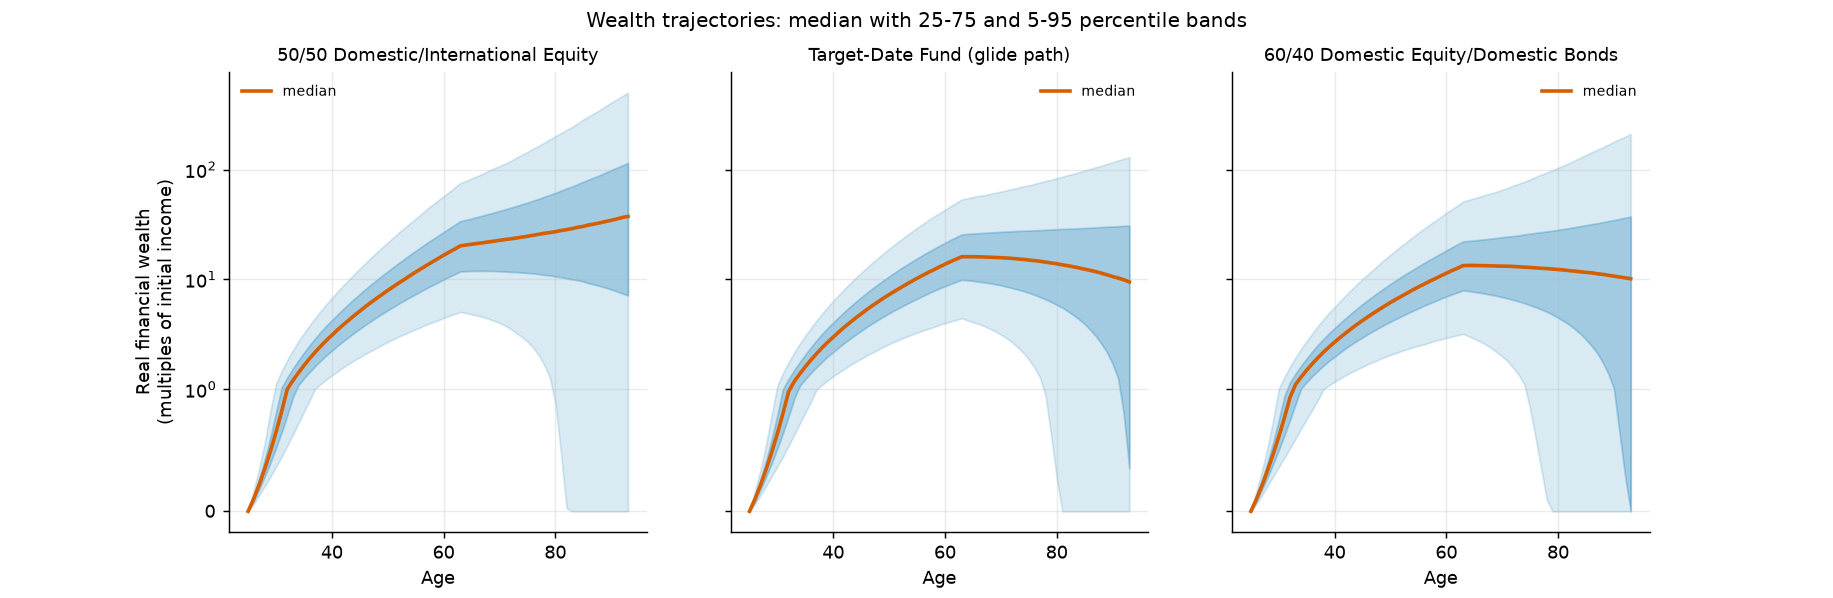
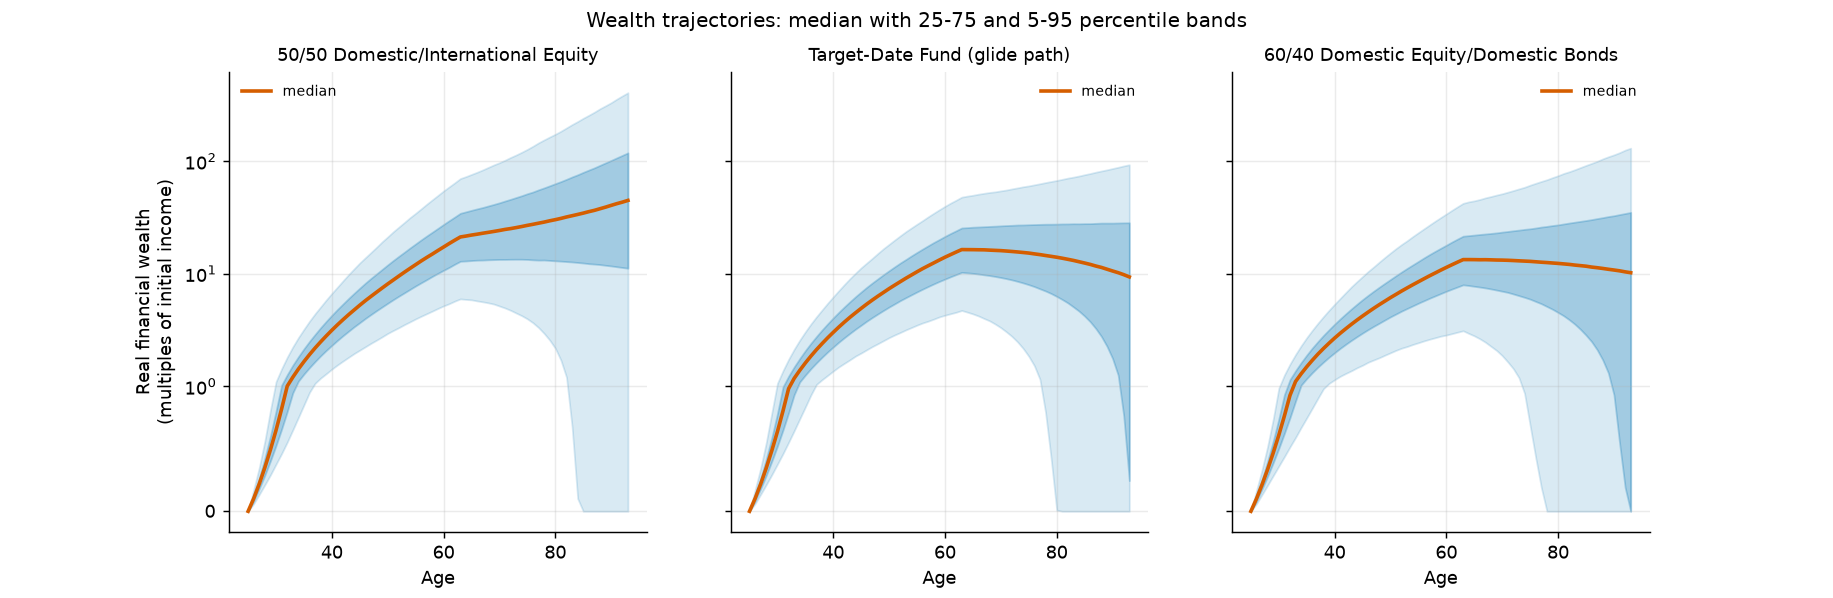
Refresh the README headline table for the observed panel
The all-equity portfolio now leads the target-date fund by 11.2% in
certainty-equivalent consumption, against 7.3% on the panel that contained
generated countries, and ruin falls from 22.2% to 11.7%. Strict dominance is
unchanged at 20 wins, 1 tie, 0 losses.

That direction is what the earlier audit predicted: the generated countries
were factor-model draws fitted to the observed cross-section, so they carried
its average behaviour and none of its idiosyncrasy, which made the
international leg smoother and more correlated with the domestic leg than a
real cross-section is.

Also drops two tables the change orphaned -- the two-panel comparison and the
jst16 robustness run, both of which compared the panel against a subset that
is now the panel.

Claude-Session: https://claude.ai/code/session_01N7pEHUPwZbMXSfjciyf6PN

diff --git a/paper/content.py b/paper/content.py
@@ -1080,9 +1080,9 @@ def section_methods(ctx: Any) -> List[Flowable]:
         f"(<i>{cfg['bootstrap']['country_draw']}</i>) with probability "
         f"proportional to the length of that country's usable history "
         f"(<i>{cfg['bootstrap']['country_weighting']}</i>). Both choices are "
-        f"varied in the robustness analysis of Section 5.5, where the "
-        f"alternatives — redrawing the country at every block, and weighting "
-        f"countries uniformly — leave the ranking unchanged."))
+        f"varied in Appendix C and summarised at the end of Section 5.5: "
+        f"redrawing the country at every block, and weighting countries "
+        f"uniformly, both leave the ranking unchanged."))
 
     out.extend(ctx.table(
         rows_from(moments, ["series", "bootstrap_mean", "panel_pooled_mean",

diff --git a/docs/04_replicated_results_and_tables.md b/docs/04_replicated_results_and_tables.md
@@ -3,20 +3,20 @@
 Headline lifecycle metrics, distributional evidence, robustness checks, and a verdict on the paper's central claim.
 
 _This file is generated by `main.py`; edit `src/report.py` rather than the Markdown._
-Generated 2026-08-28 22:12 UTC.
+Generated 2026-08-29 02:15 UTC.
 
 ## 1. What was run
 
 | Setting | Value |
 | --- | --- |
-| Panel | `dev38` -- 38 developed markets, 131 calendar years |
+| Panel | `observed` -- 16 developed markets, 131 calendar years |
 | Simulated lifetimes | 100,000 |
 | Horizon | 68 years, ages 25-93, retirement at 63 |
 | Expected block length | 10 years, geometric |
 | Domestic country draw | `per_lifetime`, `history`-weighted |
 | Savings rate | 10% of real labour income |
 | Withdrawal rule | 4% of retirement wealth, constant in real terms |
-| Panel fingerprint | `aa08bb120743ba9d` |
+| Panel fingerprint | `0a29b14e8193ba88` |
 
 All monetary quantities are **multiples of initial (age-25) annual real
 income**.
@@ -25,26 +25,26 @@ income**.
 
 | label | cec_crra_gamma2 | cec_crra_gamma5 | cec_crra_gamma10 | cec_ez_gamma2_psi0.5 | cec_ez_gamma2_psi1.5 | cec_ez_gamma5_psi0.5 | cec_ez_gamma5_psi1.5 | cec_ez_gamma10_psi0.5 | cec_ez_gamma10_psi1.5 | prob_ruin | median_wealth_at_retirement | median_bequest | p5_bequest | median_retirement_consumption |
 | --- | --- | --- | --- | --- | --- | --- | --- | --- | --- | --- | --- | --- | --- | --- |
-| 50/50 Domestic/International Equity | 1.3618 | 1.0020 | 0.7281 | 1.3618 | 1.5880 | 1.0542 | 1.1653 | 0.8013 | 0.8532 | 0.1441 | 20.1902 | 37.4520 | 0.0000 | 1.4376 |
-| 100% Domestic Equity | 1.1661 | 0.8642 | 0.6584 | 1.1661 | 1.3062 | 0.9076 | 0.9673 | 0.7106 | 0.7385 | 0.2795 | 15.2256 | 12.7524 | 0.0000 | 1.2056 |
-| 100% International Equity | 1.4510 | 1.0434 | 0.7401 | 1.4510 | 1.7343 | 1.1011 | 1.2359 | 0.8189 | 0.8741 | 0.1144 | 23.0917 | 56.8743 | 0.0000 | 1.5563 |
-| 60/40 Domestic Equity/Domestic Bonds | 1.1223 | 0.8754 | 0.6742 | 1.1223 | 1.2305 | 0.9093 | 0.9638 | 0.7219 | 0.7498 | 0.2382 | 13.3566 | 10.1274 | 0.0000 | 1.1571 |
-| Target-Date Fund (glide path) | 1.2141 | 0.9370 | 0.7026 | 1.2141 | 1.3185 | 0.9803 | 1.0369 | 0.7688 | 0.7995 | 0.2192 | 16.0818 | 9.4704 | 0.0000 | 1.2682 |
-| 100% Bills (cash) | 0.8450 | 0.7365 | 0.6169 | 0.8450 | 0.8595 | 0.7514 | 0.7632 | 0.6434 | 0.6538 | 0.5779 | 6.2921 | 0.0000 | 0.0000 | 0.8545 |
+| 50/50 Domestic/International Equity | 1.4064 | 1.0478 | 0.7563 | 1.4064 | 1.6624 | 1.1049 | 1.2478 | 0.8459 | 0.9183 | 0.1171 | 21.1901 | 44.7494 | 0.0000 | 1.4825 |
+| 100% Domestic Equity | 1.1828 | 0.8818 | 0.6677 | 1.1828 | 1.3355 | 0.9268 | 0.9937 | 0.7224 | 0.7514 | 0.2538 | 16.0819 | 16.6674 | 0.0000 | 1.2413 |
+| 100% International Equity | 1.5207 | 1.1085 | 0.7819 | 1.5207 | 1.8450 | 1.1710 | 1.3581 | 0.8795 | 0.9739 | 0.0899 | 24.4229 | 64.2500 | 0.0000 | 1.6134 |
+| 60/40 Domestic Equity/Domestic Bonds | 1.1054 | 0.8707 | 0.6712 | 1.1054 | 1.2134 | 0.9060 | 0.9630 | 0.7195 | 0.7470 | 0.2421 | 13.3369 | 10.1967 | 0.0000 | 1.1490 |
+| Target-Date Fund (glide path) | 1.2143 | 0.9425 | 0.7036 | 1.2143 | 1.3207 | 0.9906 | 1.0525 | 0.7782 | 0.8103 | 0.2221 | 16.3743 | 9.3634 | 0.0000 | 1.2725 |
+| 100% Bills (cash) | 0.8471 | 0.7390 | 0.6184 | 0.8471 | 0.8616 | 0.7543 | 0.7665 | 0.6455 | 0.6564 | 0.5636 | 6.3951 | 0.0000 | 0.0000 | 0.8558 |
 
 Reading the table at the baseline preference (`gamma = 5`):
 
 * The best strategy on certainty equivalent consumption is
-  **100% International Equity** at 1.0434.
-* The 50/50 Domestic/International Equity portfolio delivers 1.0020, which is
-  **+6.9%** against the target-date fund (0.9370)
-  and **+14.5%** against 60/40 (0.8754).
-* Ruin probability under the 4% rule is 14.4% for the
-  all-equity portfolio -- **7.5 percentage points lower** than the
-  target-date fund's 21.9% and 9.4pp lower than 60/40's
-  23.8%. The conservative strategies are the ones that run out of money.
+  **100% International Equity** at 1.1085.
+* The 50/50 Domestic/International Equity portfolio delivers 1.0478, which is
+  **+11.2%** against the target-date fund (0.9425)
+  and **+20.3%** against 60/40 (0.8707).
+* Ruin probability under the 4% rule is 11.7% for the
+  all-equity portfolio -- **10.5 percentage points lower** than the
+  target-date fund's 22.2% and 12.5pp lower than 60/40's
+  24.2%. The conservative strategies are the ones that run out of money.
 * Bills alone -- the "safe" strategy -- ruin
-  57.8% of investors.
+  56.4% of investors.
 
 As an internal check on the preference machinery, the `cec_ez_gamma2_psi0.5`
 column reproduces `cec_crra_gamma2` exactly, and `cec_ez_gamma10_psi0.1` would
@@ -90,7 +90,7 @@ depend on any modelling choice made here.
 
 100% international equity scores *above* the 50/50 split on this panel. That
 is a mechanical consequence of the international leg being an equally weighted
-portfolio of 37 other markets while the domestic leg is a single
+portfolio of 15 other markets while the domestic leg is a single
 market: the international sleeve is simply better diversified. ACO find the
 same direction and still recommend roughly 50/50 on grounds this simulation
 does not model -- home bias in consumption baskets, currency-hedging costs,
@@ -104,34 +104,34 @@ the unconstrained optimum.
 
 | strategy | label | mean | p1 | p5 | p10 | p25 | p50 | p75 | p90 | p95 | p99 |
 | --- | --- | --- | --- | --- | --- | --- | --- | --- | --- | --- | --- |
-| balanced_all_equity | 50/50 Domestic/International Equity | 28.2499 | 2.6286 | 5.0469 | 7.0533 | 11.8140 | 20.1902 | 33.8438 | 54.8242 | 75.4590 | 150.7082 |
-| domestic_equity | 100% Domestic Equity | 35.1832 | 1.0982 | 2.7441 | 4.2566 | 8.0379 | 15.2256 | 28.6515 | 52.3268 | 80.7069 | 449.5271 |
-| international_equity | 100% International Equity | 30.2992 | 2.7100 | 5.6629 | 8.0479 | 13.6823 | 23.0917 | 37.9490 | 59.2080 | 78.3944 | 135.4626 |
-| sixty_forty | 60/40 Domestic Equity/Domestic Bonds | 19.6448 | 1.4507 | 3.1801 | 4.6064 | 7.9417 | 13.3566 | 22.1451 | 35.8972 | 51.1817 | 139.2982 |
-| target_date_fund | Target-Date Fund (glide path) | 21.1479 | 2.3382 | 4.4219 | 6.0694 | 9.9061 | 16.0818 | 25.6578 | 39.8676 | 53.3798 | 101.2643 |
-| bills_only | 100% Bills (cash) | 7.1365 | 0.9652 | 2.0367 | 2.7806 | 4.2313 | 6.2921 | 9.0649 | 12.4419 | 15.0021 | 21.1890 |
+| balanced_all_equity | 50/50 Domestic/International Equity | 27.6620 | 3.3648 | 5.9692 | 7.9909 | 12.8823 | 21.1901 | 34.4085 | 53.2771 | 70.0209 | 120.6625 |
+| domestic_equity | 100% Domestic Equity | 23.6835 | 1.2576 | 3.0315 | 4.6082 | 8.7218 | 16.0819 | 28.6095 | 47.6442 | 65.6997 | 132.4669 |
+| international_equity | 100% International Equity | 32.0010 | 3.8552 | 6.9279 | 9.2016 | 14.6933 | 24.4229 | 39.7321 | 62.3029 | 82.2718 | 139.0937 |
+| sixty_forty | 60/40 Domestic Equity/Domestic Bonds | 17.0102 | 1.3281 | 3.1089 | 4.5931 | 7.9584 | 13.3369 | 21.5413 | 32.8143 | 42.1849 | 70.4566 |
+| target_date_fund | Target-Date Fund (glide path) | 20.2112 | 2.4768 | 4.7101 | 6.4543 | 10.2730 | 16.3743 | 25.4865 | 37.9751 | 47.8799 | 76.8733 |
+| bills_only | 100% Bills (cash) | 7.1806 | 0.8433 | 2.0183 | 2.8438 | 4.3418 | 6.3951 | 9.1207 | 12.3977 | 14.9368 | 20.9819 |
 
 ### 4.2 Real bequest at age 93
 
 | strategy | label | mean | p1 | p5 | p10 | p25 | p50 | p75 | p90 | p95 | p99 |
 | --- | --- | --- | --- | --- | --- | --- | --- | --- | --- | --- | --- |
-| balanced_all_equity | 50/50 Domestic/International Equity | 179.2957 | 0.0000 | 0.0000 | 0.0000 | 7.1615 | 37.4520 | 114.8504 | 281.8682 | 500.5876 | 2573.9188 |
-| domestic_equity | 100% Domestic Equity | 2426.3160 | 0.0000 | 0.0000 | 0.0000 | 0.0000 | 12.7524 | 65.7270 | 215.3875 | 479.7417 | 41034.4802 |
-| international_equity | 100% International Equity | 139.7008 | 0.0000 | 0.0000 | 0.0000 | 14.4692 | 56.8743 | 151.8938 | 333.8196 | 534.2411 | 1249.1092 |
-| sixty_forty | 60/40 Domestic Equity/Domestic Bonds | 137.8966 | 0.0000 | 0.0000 | 0.0000 | 0.0000 | 10.1274 | 37.3114 | 103.7745 | 210.6618 | 3792.0356 |
-| target_date_fund | Target-Date Fund (glide path) | 35.2781 | 0.0000 | 0.0000 | 0.0000 | 0.3515 | 9.4704 | 30.8613 | 74.5228 | 129.6347 | 441.8587 |
-| bills_only | 100% Bills (cash) | 1.2743 | 0.0000 | 0.0000 | 0.0000 | 0.0000 | 0.0000 | 1.0218 | 3.8526 | 6.7734 | 15.8933 |
+| balanced_all_equity | 50/50 Domestic/International Equity | 108.4187 | 0.0000 | 0.0000 | 0.0000 | 11.1848 | 44.7494 | 118.4408 | 258.8582 | 405.5232 | 938.8100 |
+| domestic_equity | 100% Domestic Equity | 83.1474 | 0.0000 | 0.0000 | 0.0000 | 0.0000 | 16.6674 | 68.7263 | 184.8281 | 322.9794 | 919.0764 |
+| international_equity | 100% International Equity | 149.2138 | 0.0000 | 0.0000 | 0.4448 | 18.8916 | 64.2500 | 163.3522 | 353.2669 | 550.2203 | 1300.8826 |
+| sixty_forty | 60/40 Domestic Equity/Domestic Bonds | 33.1275 | 0.0000 | 0.0000 | 0.0000 | 0.0000 | 10.1967 | 35.0139 | 81.9068 | 130.3778 | 305.7835 |
+| target_date_fund | Target-Date Fund (glide path) | 23.6896 | 0.0000 | 0.0000 | 0.0000 | 0.2454 | 9.3634 | 28.3347 | 61.3163 | 92.9050 | 194.5955 |
+| bills_only | 100% Bills (cash) | 1.1574 | 0.0000 | 0.0000 | 0.0000 | 0.0000 | 0.0000 | 1.0602 | 3.6132 | 6.0170 | 13.3261 |
 
 ### 4.3 Mean real retirement consumption
 
 | strategy | label | mean | p1 | p5 | p10 | p25 | p50 | p75 | p90 | p95 | p99 |
 | --- | --- | --- | --- | --- | --- | --- | --- | --- | --- | --- | --- |
-| balanced_all_equity | 50/50 Domestic/International Equity | 1.7481 | 0.5660 | 0.7137 | 0.8176 | 1.0519 | 1.4347 | 2.0285 | 2.8914 | 3.7057 | 6.6688 |
-| domestic_equity | 100% Domestic Equity | 1.9788 | 0.4968 | 0.6141 | 0.6964 | 0.8889 | 1.2135 | 1.7658 | 2.7059 | 3.7376 | 17.9233 |
-| international_equity | 100% International Equity | 1.8329 | 0.5780 | 0.7412 | 0.8623 | 1.1242 | 1.5522 | 2.1918 | 3.0677 | 3.8320 | 6.0987 |
-| sixty_forty | 60/40 Domestic Equity/Domestic Bonds | 1.4029 | 0.5070 | 0.6224 | 0.7024 | 0.8787 | 1.1564 | 1.5692 | 2.1610 | 2.7707 | 6.1878 |
-| target_date_fund | Target-Date Fund (glide path) | 1.4643 | 0.5412 | 0.6705 | 0.7612 | 0.9591 | 1.2627 | 1.7089 | 2.3181 | 2.8712 | 4.7461 |
-| bills_only | 100% Bills (cash) | 0.9070 | 0.4564 | 0.5370 | 0.5896 | 0.6986 | 0.8595 | 1.0660 | 1.2826 | 1.4285 | 1.7730 |
+| balanced_all_equity | 50/50 Domestic/International Equity | 1.7278 | 0.5981 | 0.7491 | 0.8593 | 1.0957 | 1.4811 | 2.0512 | 2.8311 | 3.4947 | 5.4563 |
+| domestic_equity | 100% Domestic Equity | 1.5267 | 0.5058 | 0.6270 | 0.7142 | 0.9127 | 1.2458 | 1.7780 | 2.5317 | 3.2229 | 5.6246 |
+| international_equity | 100% International Equity | 1.9050 | 0.6224 | 0.7952 | 0.9126 | 1.1764 | 1.6117 | 2.2656 | 3.1891 | 3.9884 | 6.2143 |
+| sixty_forty | 60/40 Domestic Equity/Domestic Bonds | 1.2919 | 0.5042 | 0.6225 | 0.7018 | 0.8762 | 1.1490 | 1.5364 | 2.0257 | 2.4159 | 3.5103 |
+| target_date_fund | Target-Date Fund (glide path) | 1.4204 | 0.5477 | 0.6824 | 0.7728 | 0.9672 | 1.2691 | 1.6928 | 2.2277 | 2.6453 | 3.7936 |
+| bills_only | 100% Bills (cash) | 0.9083 | 0.4596 | 0.5405 | 0.5936 | 0.7022 | 0.8604 | 1.0682 | 1.2810 | 1.4288 | 1.7673 |
 
 The left tail is what settles the argument. Conservative strategies do not
 merely give up upside -- they lose at the *bottom* of the distribution too,
@@ -143,85 +143,62 @@ supposedly safe allocations are not safer where safety is supposed to matter.
 
 Each variant re-runs the entire pipeline end to end with one change.
 
-### 5.1 Panel `jst16` (fully empirical countries only)
+### 5.1 Country draw `per_block`
 
 | strategy | label | cec_crra_gamma5 | cec_ez_gamma5_psi1.5 | prob_ruin | median_wealth_at_retirement | median_bequest | p5_retirement_consumption |
 | --- | --- | --- | --- | --- | --- | --- | --- |
-| balanced_all_equity | 50/50 Domestic/International Equity | 1.0478 | 1.2478 | 0.1171 | 21.1901 | 44.7494 | 0.7491 |
-| domestic_equity | 100% Domestic Equity | 0.8818 | 0.9937 | 0.2538 | 16.0819 | 16.6674 | 0.6270 |
-| international_equity | 100% International Equity | 1.1085 | 1.3581 | 0.0899 | 24.4229 | 64.2500 | 0.7952 |
-| sixty_forty | 60/40 Domestic Equity/Domestic Bonds | 0.8707 | 0.9630 | 0.2421 | 13.3369 | 10.1967 | 0.6225 |
-| target_date_fund | Target-Date Fund (glide path) | 0.9425 | 1.0525 | 0.2221 | 16.3743 | 9.3634 | 0.6824 |
-| bills_only | 100% Bills (cash) | 0.7390 | 0.7665 | 0.5636 | 6.3951 | 0.0000 | 0.5405 |
+| balanced_all_equity | 50/50 Domestic/International Equity | 1.0462 | 1.2564 | 0.1176 | 21.0230 | 43.0276 | 0.7497 |
+| domestic_equity | 100% Domestic Equity | 0.8779 | 1.0051 | 0.2591 | 15.7353 | 14.2223 | 0.6312 |
+| international_equity | 100% International Equity | 1.1051 | 1.3568 | 0.0907 | 24.2802 | 63.7434 | 0.7922 |
+| sixty_forty | 60/40 Domestic Equity/Domestic Bonds | 0.8657 | 0.9650 | 0.2487 | 13.1465 | 9.0024 | 0.6211 |
+| target_date_fund | Target-Date Fund (glide path) | 0.9386 | 1.0554 | 0.2282 | 16.1997 | 8.7257 | 0.6827 |
+| bills_only | 100% Bills (cash) | 0.7366 | 0.7647 | 0.5752 | 6.3680 | 0.0000 | 0.5386 |
 
-### 5.2 Country draw `per_block`
-
-| strategy | label | cec_crra_gamma5 | cec_ez_gamma5_psi1.5 | prob_ruin | median_wealth_at_retirement | median_bequest | p5_retirement_consumption |
-| --- | --- | --- | --- | --- | --- | --- | --- |
-| balanced_all_equity | 50/50 Domestic/International Equity | 1.0086 | 1.2008 | 0.1390 | 20.1633 | 37.1901 | 0.7229 |
-| domestic_equity | 100% Domestic Equity | 0.8638 | 0.9871 | 0.2796 | 15.2162 | 11.9603 | 0.6202 |
-| international_equity | 100% International Equity | 1.0463 | 1.2677 | 0.1129 | 23.0035 | 53.9653 | 0.7490 |
-| sixty_forty | 60/40 Domestic Equity/Domestic Bonds | 0.8769 | 0.9798 | 0.2360 | 13.3821 | 9.7379 | 0.6302 |
-| target_date_fund | Target-Date Fund (glide path) | 0.9408 | 1.0544 | 0.2167 | 16.0602 | 9.2797 | 0.6818 |
-| bills_only | 100% Bills (cash) | 0.7344 | 0.7620 | 0.5882 | 6.2268 | 0.0000 | 0.5380 |
-
-### 5.3 Country weighting `uniform`
+### 5.2 Country weighting `uniform`
 
 | strategy | label | cec_crra_gamma5 | cec_ez_gamma5_psi1.5 | prob_ruin | median_wealth_at_retirement | median_bequest | p5_retirement_consumption |
 | --- | --- | --- | --- | --- | --- | --- | --- |
-| balanced_all_equity | 50/50 Domestic/International Equity | 1.0038 | 1.1527 | 0.1415 | 20.8565 | 40.7042 | 0.7070 |
-| domestic_equity | 100% Domestic Equity | 0.8570 | 0.9525 | 0.2850 | 15.5401 | 12.7314 | 0.6045 |
-| international_equity | 100% International Equity | 1.0795 | 1.2907 | 0.0934 | 23.0738 | 58.5325 | 0.7707 |
-| sixty_forty | 60/40 Domestic Equity/Domestic Bonds | 0.8999 | 0.9884 | 0.2084 | 14.7131 | 14.3307 | 0.6320 |
-| target_date_fund | Target-Date Fund (glide path) | 0.9672 | 1.0681 | 0.1766 | 17.2805 | 13.6005 | 0.6862 |
-| bills_only | 100% Bills (cash) | 0.7382 | 0.7647 | 0.5729 | 6.3201 | 0.0000 | 0.5365 |
+| balanced_all_equity | 50/50 Domestic/International Equity | 1.0472 | 1.2472 | 0.1177 | 21.2003 | 44.7152 | 0.7491 |
+| domestic_equity | 100% Domestic Equity | 0.8814 | 0.9932 | 0.2543 | 16.0907 | 16.6722 | 0.6266 |
+| international_equity | 100% International Equity | 1.1089 | 1.3595 | 0.0901 | 24.4401 | 64.1127 | 0.7957 |
+| sixty_forty | 60/40 Domestic Equity/Domestic Bonds | 0.8704 | 0.9624 | 0.2422 | 13.3316 | 10.1559 | 0.6221 |
+| target_date_fund | Target-Date Fund (glide path) | 0.9424 | 1.0522 | 0.2229 | 16.3448 | 9.3362 | 0.6824 |
+| bills_only | 100% Bills (cash) | 0.7389 | 0.7662 | 0.5641 | 6.3909 | 0.0000 | 0.5401 |
 
 ### Results by domestic-country tier
 
 | tier | n_paths | strategy | label | cec_crra_gamma5 | prob_ruin | median_bequest |
 | --- | --- | --- | --- | --- | --- | --- |
-| A | 60331 | balanced_all_equity | 50/50 Domestic/International Equity | 1.0541 | 0.1138 | 49.1814 |
-| A | 60331 | domestic_equity | 100% Domestic Equity | 0.8780 | 0.2568 | 16.2356 |
-| A | 60331 | international_equity | 100% International Equity | 1.1386 | 0.0794 | 78.7781 |
-| A | 60331 | sixty_forty | 60/40 Domestic Equity/Domestic Bonds | 0.8668 | 0.2448 | 10.0080 |
-| A | 60331 | target_date_fund | Target-Date Fund (glide path) | 0.9436 | 0.2186 | 9.8547 |
-| A | 60331 | bills_only | 100% Bills (cash) | 0.7370 | 0.5623 | 0.0000 |
-| B | 14828 | balanced_all_equity | 50/50 Domestic/International Equity | 0.8632 | 0.2750 | 9.4315 |
-| B | 14828 | domestic_equity | 100% Domestic Equity | 0.8092 | 0.3696 | 3.6939 |
-| B | 14828 | international_equity | 100% International Equity | 0.8473 | 0.2856 | 10.3709 |
-| B | 14828 | sixty_forty | 60/40 Domestic Equity/Domestic Bonds | 0.8239 | 0.3134 | 3.8661 |
-| B | 14828 | target_date_fund | Target-Date Fund (glide path) | 0.8456 | 0.3280 | 2.8560 |
-| B | 14828 | bills_only | 100% Bills (cash) | 0.7278 | 0.6070 | 0.0000 |
-| C | 24841 | balanced_all_equity | 50/50 Domestic/International Equity | 1.0127 | 0.1397 | 36.6905 |
-| C | 24841 | domestic_equity | 100% Domestic Equity | 0.8709 | 0.2807 | 11.9384 |
-| C | 24841 | international_equity | 100% International Equity | 1.0595 | 0.0971 | 52.1183 |
-| C | 24841 | sixty_forty | 60/40 Domestic Equity/Domestic Bonds | 0.9440 | 0.1770 | 16.4123 |
-| C | 24841 | target_date_fund | Target-Date Fund (glide path) | 1.0020 | 0.1557 | 15.9095 |
-| C | 24841 | bills_only | 100% Bills (cash) | 0.7408 | 0.5984 | 0.0000 |
+| A | 100000 | balanced_all_equity | 50/50 Domestic/International Equity | 1.0478 | 0.1171 | 44.7494 |
+| A | 100000 | domestic_equity | 100% Domestic Equity | 0.8818 | 0.2538 | 16.6674 |
+| A | 100000 | international_equity | 100% International Equity | 1.1085 | 0.0899 | 64.2500 |
+| A | 100000 | sixty_forty | 60/40 Domestic Equity/Domestic Bonds | 0.8707 | 0.2421 | 10.1967 |
+| A | 100000 | target_date_fund | Target-Date Fund (glide path) | 0.9425 | 0.2221 | 9.3634 |
+| A | 100000 | bills_only | 100% Bills (cash) | 0.7390 | 0.5636 | 0.0000 |
 
-The ranking is stable across the empirical-only panel, the `per_block` country
-draw and uniform country weighting. That the Tier-A-only (fully empirical,
-16-country) panel reproduces the ordering is the check that matters most: the
-conclusion is not an artefact of the calibrated Tier-B extension.
+The ranking is stable across the `per_block` country draw and uniform country
+weighting.
 
-The tier split says something stronger. The all-equity advantage over the
-glide path is **larger** on the observed Tier-A histories than on the
-simulated ones, and 60/40 does relatively *better* among domestic markets whose
-equity was generated. The synthetic countries are drawn from a factor model
-fitted to Tier-A, so their equity returns are less fat-tailed and less
-persistent than the real thing -- they dilute the result rather than create
-it. If the extension were manufacturing the finding, this table would show the
-opposite pattern. (Tier B carries observed bonds and bills but simulated
-equity, so it sits with the simulated group on the mechanism that matters
-here.)
+There is no panel variant left to report here, and that is the point. This
+section used to compare a 38-country panel against its 16-country empirical
+subset, because 22 of those countries had factor-model returns. The simulated
+countries have been removed, so the empirical subset *is* the panel and there
+is nothing to hold it against. `14_data_provenance.md` records what the removal
+cost -- an international leg averaged over 15
+markets rather than 37 -- and what it bought.
+
+The tier split below is therefore degenerate by construction: every country is
+Tier A. It is still reported, because it is computed from the observation masks
+rather than from a label, and a non-degenerate result would mean a generated
+block had returned to the panel.
 
 ## 6. Comparison with the published paper
 
 | Claim in Anarkulova, Cederburg & O'Doherty | This replication | Agreement |
 | --- | --- | --- |
-| All-equity beats target-date glide paths on certainty-equivalent consumption | 1.0020 vs 0.9370 at gamma = 5 | yes |
-| All-equity beats 60/40 on certainty-equivalent consumption | 1.0020 vs 0.8754 | yes |
-| All-equity *also* wins on downside/ruin, not just on the mean | ruin 14.4% vs 21.9% (TDF) and 23.8% (60/40) | yes |
+| All-equity beats target-date glide paths on certainty-equivalent consumption | 1.0478 vs 0.9425 at gamma = 5 | yes |
+| All-equity beats 60/40 on certainty-equivalent consumption | 1.0478 vs 0.8707 | yes |
+| All-equity *also* wins on downside/ruin, not just on the mean | ruin 11.7% vs 22.2% (TDF) and 24.2% (60/40) | yes |
 | Result survives high risk aversion | holds at gamma = 2, 5, 10 | yes |
 | Result survives Epstein-Zin preferences | holds at psi = 0.5, 1.5 | yes |
 | International diversification is essential to the result | 100% domestic equity is the weakest equity strategy | yes |
@@ -237,18 +214,24 @@ its economic mechanism**, which is what the paper's contribution actually is.
 
 ## 7. Limitations
 
-1. **The extension is largely calibrated, not observed.** 18 of the
-   38 countries have simulated equity, bond *and* bill returns, and a further
-   4 have simulated equity with observed rates. Section 5
-   shows the ranking survives dropping them entirely.
+1. **The cross-section is 16 countries, not 38.** Every one of them has a
+   recorded equity, bond, bill and inflation history, and nothing here is
+   generated -- but the paper this replicates uses a wider universe, and the
+   international leg is correspondingly an average over
+   15 markets rather than 37. That narrowness is the
+   price of the previous limitation being gone; `14_data_provenance.md` states
+   both halves.
 2. **Annual, not monthly.** Blocks are drawn in years. This coarsens the
    persistence structure relative to ACO's 120-month blocks.
 3. **No mortality risk.** Every investor lives to exactly 93. Real longevity
    uncertainty would raise the cost of ruin and, if anything, strengthen the
    case against strategies with higher ruin probabilities.
-4. **Labour income is not linked to the drawn country.** See
-   `03_lifecycle_utility_model.md`, section 3.1. The bias runs against the
-   paper's conclusion, not toward it.
+4. **Labour income is not linked to the drawn country, and carries no
+   economy-wide growth term.** See `03_lifecycle_utility_model.md`, section
+   3.1. `14_data_provenance.md` section 3.3 measures the second half of that:
+   eighteen countries recorded real wage growth the income profile has no term
+   for. Both biases run against the paper's conclusion, not toward it -- less
+   human capital weakens the case for holding equity when young.
 5. **Epstein-Zin is evaluated ex ante.** See `03`, section 7.4. The
    specification nests CRRA exactly, so cross-strategy comparisons are
    like-for-like, but the level is not full recursive utility.

diff --git a/README.md b/README.md
@@ -24,18 +24,19 @@ financial wealth before age 93 under a 4% real withdrawal rule.
 
 | Strategy | CEC (γ=2) | CEC (γ=5) | CEC (γ=10) | P(ruin) | Median bequest |
 | --- | --- | --- | --- | --- | --- |
-| 100% International Equity | 1.451 | 1.043 | 0.740 | 11.4% | 56.9 |
-| **50/50 Domestic/International Equity** | **1.362** | **1.002** | **0.728** | **14.4%** | **37.5** |
-| Target-Date Fund (glide path) | 1.212 | 0.934 | 0.700 | 22.3% | 9.5 |
-| 60/40 Domestic Equity / Domestic Bonds | 1.120 | 0.873 | 0.673 | 24.3% | 10.0 |
-| 100% Domestic Equity | 1.166 | 0.864 | 0.658 | 28.0% | 12.8 |
-| 100% Bills (cash) | 0.844 | 0.736 | 0.616 | 57.7% | 0.0 |
+| 100% International Equity | 1.521 | 1.108 | 0.782 | 9.0% | 64.2 |
+| **50/50 Domestic/International Equity** | **1.406** | **1.048** | **0.756** | **11.7%** | **44.7** |
+| Target-Date Fund (glide path) | 1.214 | 0.943 | 0.704 | 22.2% | 9.4 |
+| 60/40 Domestic Equity / Domestic Bonds | 1.105 | 0.871 | 0.671 | 24.2% | 10.2 |
+| 100% Domestic Equity | 1.183 | 0.882 | 0.668 | 25.4% | 16.7 |
+| 100% Bills (cash) | 0.847 | 0.739 | 0.618 | 56.4% | 0.0 |
 
 The 50/50 all-equity portfolio **strictly dominates** the target-date fund and
 60/40 on all 21 reported criteria (20 wins, 1 tie, 0 losses), across every
 risk-aversion level and both Epstein-Zin IES values tested. The ordering
-survives on the fully empirical 16-country panel, under per-block country
-resampling, and under uniform country weighting.
+survives under per-block country resampling and under uniform country
+weighting. Every path behind these numbers was drawn from recorded returns --
+see "How much of this data is real" below.
 
 See [`docs/04_replicated_results_and_tables.md`](docs/04_replicated_results_and_tables.md)
 for the full analysis and the caveats.
